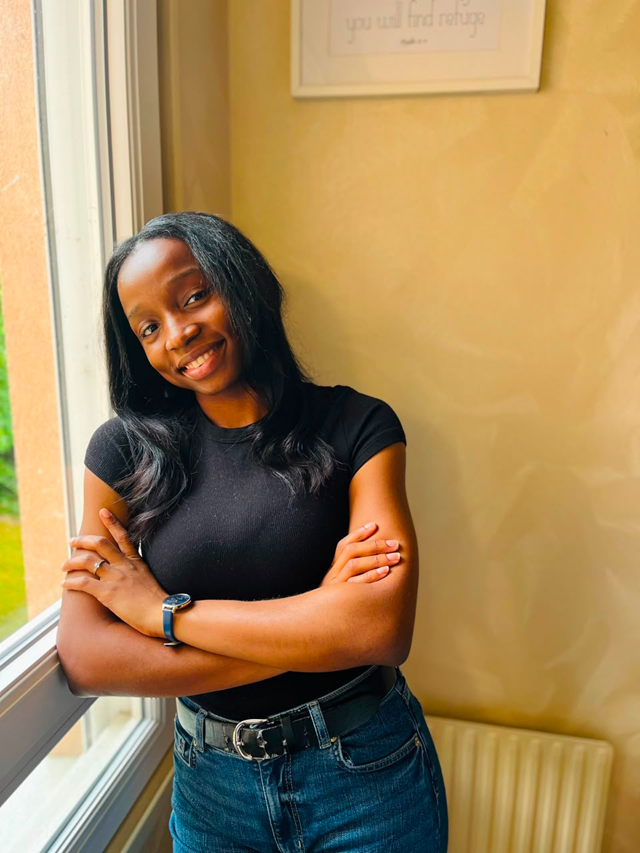
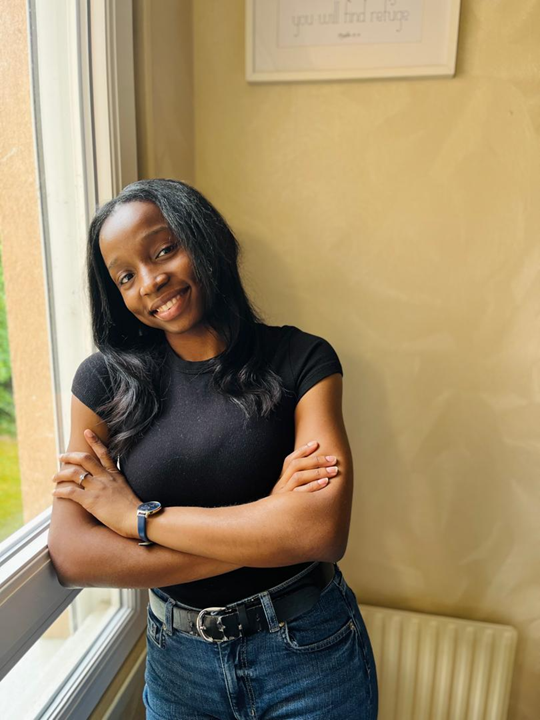
Met à jour les portraits et les médias

diff --git a/src/App.jsx b/src/App.jsx
@@ -41,7 +41,7 @@ const wedding = {
   // Musique — déposez le fichier ici : public/audio/notre-chanson.mp3
   music: {
     src: '/audio/notre-chanson.mp3',
-    title: 'Notre chanson — Axel & Aivi',
+    title: "Je t'aim Aivi",
   },
 
   intro: 'ont la joie de vous convier\nà leur mariage',
@@ -95,7 +95,7 @@ const programme = [
     venue: 'Parc François Mitterrand',
     address: '3 Av. du Parc, 95000 Cergy',
     mapsUrl: 'https://www.google.com/maps/search/?api=1&query=3%20avenue%20du%20Parc%2C%2095000%20Cergy',
-    image: '/images/programme/reception.jpg',
+    image: '/images/programme/cocktail.png',
     alt: 'Cocktail au parc François Mitterrand',
   },
   {
@@ -121,7 +121,7 @@ const programme = [
 const aiviStoryParagraphs = [
   "Je ne pourrais pas relater mon histoire avec mon prince charmant aux yeux revolver sans commencer par Celui qui en est véritablement le point de départ : le Seigneur Jésus-Christ.",
   "Le 15 novembre 2020, le Seigneur Jésus s'est révélé à moi. Cette rencontre a changé le cours de ma vie. J'ai aussitôt commencé à marcher avec Lui, à apprendre à Le connaître, à L'aimer et à désirer Lui plaire.",
-  "À cette époque, je traversais pourtant une lutte intérieure : celle de mettre un terme à ma relation de copinage. Je pensais sincèrement qu'il était presque impossible de rencontrer un homme qui aime véritablement le Seigneur. J'avais alors l'impression que c'était une affaire de femmes et je pensais pouvoir épouser quelqu'un qui n'avait pas encore vécu une réelle transformation en Jésus-Christ.",
+  "À cette époque, je traversais pourtant une lutte intérieure : celle de mettre un terme à une relation de copinage. Je pensais sincèrement qu'il était presque impossible de rencontrer un homme qui aime véritablement le Seigneur. J'avais l'impression que c'était une affaire de femmes et je pensais pouvoir épouser quelqu'un qui n'avait pas encore vécu une réelle transformation en Jésus-Christ.",
   "Mais Dieu, dans Sa bonté, avait de meilleurs plans. Au fil des mois, plus ma relation avec le Seigneur grandissait, plus mes désirs étaient transformés. Mon cœur s'attachait davantage aux intérêts du Royaume de Dieu et cette relation qui occupait autrefois une place importante dans ma vie perdait progressivement son attrait.",
   "C'est dans cette période, pendant le confinement, que le Seigneur a préparé une rencontre qui allait marquer mon histoire.",
   "Le week-end du 24 avril 2021, j'accompagnais celle qui est ma mère dans le Seigneur à une session de prière de 24h. Avec le recul, je comprends que Dieu avait fixé un rendez-vous avec moi. L'un des pasteurs avait donné quelques sujets de prière et certaines personnes s'étaient avancées pour prier à haute voix. Absorbée par une conversation avec une sœur, je n'y prêtais pas vraiment attention... jusqu'à ce qu'une voix attire soudain toute mon attention. C'était la prière d'un jeune frère. Il priait avec une telle sincérité : « Seigneur, je veux T'aimer. Je veux T'être utile... » Ce n'étaient que quelques mots. Pourtant, ils ont suffi pour arrêter net ma conversation. Je me suis mise à l'écouter attentivement. Une seule pensée traversait mon esprit : « C'est possible ? Un homme qui prie simplement pour aimer Dieu ? » Cela me paraissait presque irréel. À cet instant, quelque chose a profondément touché mon cœur. J'ai prié en mon cœur en disant au Seigneur que si c'est possible de Le servir en étant mariée à un homme qui L'aime réellement, alors c'est ce genre de mari que je souhaiterais avoir. En quittant ce siège de prière, une conviction nouvelle était née en moi : le monde n'avait rien à m'offrir. Je ne voulais plus construire ma vie selon mes propres critères, mais faire confiance au Seigneur, convaincue que c'est en Christ que je trouverais le conjoint qu'Il avait préparé pour moi.",
@@ -404,7 +404,7 @@ function MusicPlayer() {
       >
         {playing ? <Pause className="h-4 w-4" /> : <Play className="h-4 w-4" style={{ marginLeft: 1 }} />}
       </button>
-      <span className="player-mobile-title">Play our song</span>
+      <span className="player-mobile-title">{wedding.music.title}</span>
       <div className="player-meta">
         <p className="player-title">{wedding.music.title}</p>
         <div className="player-bar"><i style={{ width: `${progress}%` }} /></div>
@@ -1106,7 +1106,9 @@ function StoryPage() {
             {storyTestimonies.map((testimony, index) => (
               <article className={`story-testimony ${index % 2 === 1 ? 'reverse' : ''}`} key={testimony.label}>
                 <Reveal className="story-testimony-portrait">
-                  <img src={testimony.image} alt={testimony.alt} loading="lazy" />
+                  <span className="story-portrait-medallion">
+                    <img src={testimony.image} alt={testimony.alt} loading="lazy" />
+                  </span>
                 </Reveal>
                 <div className="story-testimony-content">
                   <p className="eyebrow">{testimony.label}</p>

diff --git a/src/index.css b/src/index.css
@@ -1127,21 +1127,68 @@ img {
   border-top: 0;
 }
 .story-testimony-portrait {
+  position: relative;
   overflow: hidden;
+  display: grid;
+  place-items: center;
   width: min(100%, 28rem);
   margin: 0 auto 2rem;
-  aspect-ratio: 3 / 4;
-  padding: 0.45rem;
-  border: 1px solid rgba(199, 162, 74, 0.46);
+  aspect-ratio: 4 / 5;
+  padding: clamp(1.25rem, 5vw, 2.25rem);
+  border: 1px solid rgba(199, 162, 74, 0.42);
   border-radius: 4px;
-  background: var(--ivory);
+  background:
+    radial-gradient(circle at 18% 23%, rgba(199, 162, 74, 0.4) 0 1px, transparent 1.7px),
+    radial-gradient(circle at 82% 18%, rgba(199, 162, 74, 0.3) 0 1px, transparent 1.6px),
+    radial-gradient(circle at 88% 73%, rgba(199, 162, 74, 0.34) 0 1px, transparent 1.7px),
+    radial-gradient(circle at 23% 82%, rgba(199, 162, 74, 0.28) 0 1px, transparent 1.6px),
+    linear-gradient(145deg, #fffdf8 0%, #f8eddf 54%, #fffaf1 100%);
   box-shadow: 0 18px 45px rgba(7, 51, 59, 0.14);
 }
-.story-testimony-portrait img {
+.story-testimony-portrait::before,
+.story-testimony-portrait::after {
+  content: '';
+  position: absolute;
+  width: 0.32rem;
+  height: 0.32rem;
+  border: 1px solid rgba(199, 162, 74, 0.62);
+  transform: rotate(45deg);
+}
+.story-testimony-portrait::before {
+  top: 15%;
+  right: 12%;
+}
+.story-testimony-portrait::after {
+  bottom: 13%;
+  left: 13%;
+  width: 0.24rem;
+  height: 0.24rem;
+}
+.story-portrait-medallion {
+  position: relative;
+  z-index: 1;
+  overflow: hidden;
   width: 100%;
-  height: 100%;
+  max-width: 20rem;
+  aspect-ratio: 1;
+  border-radius: 50%;
+  background: linear-gradient(115deg, #8f6d22 0%, #ead58d 24%, #b78c30 50%, #f1dda0 72%, #9f7928 100%);
+  box-shadow:
+    0 0 0 1px rgba(143, 109, 34, 0.3),
+    0 12px 28px rgba(82, 61, 25, 0.18);
+}
+.story-portrait-medallion img {
+  position: absolute;
+  inset: 3px;
+  width: calc(100% - 6px);
+  height: calc(100% - 6px);
   object-fit: cover;
-  border-radius: 2px;
+  object-position: center 31%;
+  border: 2px solid #fffaf1;
+  border-radius: 50%;
+}
+.story-testimony.reverse .story-portrait-medallion img {
+  object-position: center 35%;
 }
 .story-testimony-content {
   min-width: 0;
